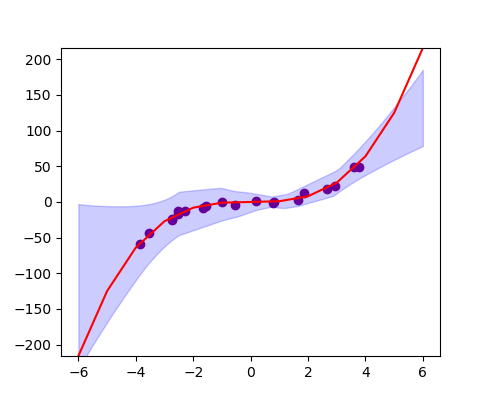
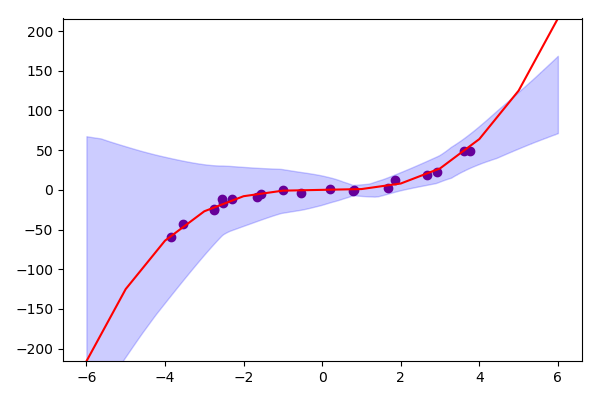
updated img of ensemble

diff --git a/ensemble.py b/ensemble.py
@@ -127,4 +127,6 @@ if n_features == 1:
 	plt.ylim(top=np.max(y_test))  
 	plt.ylim(bottom=np.min(y_test))
 
+	fig.tight_layout()
+
 	plt.show()
